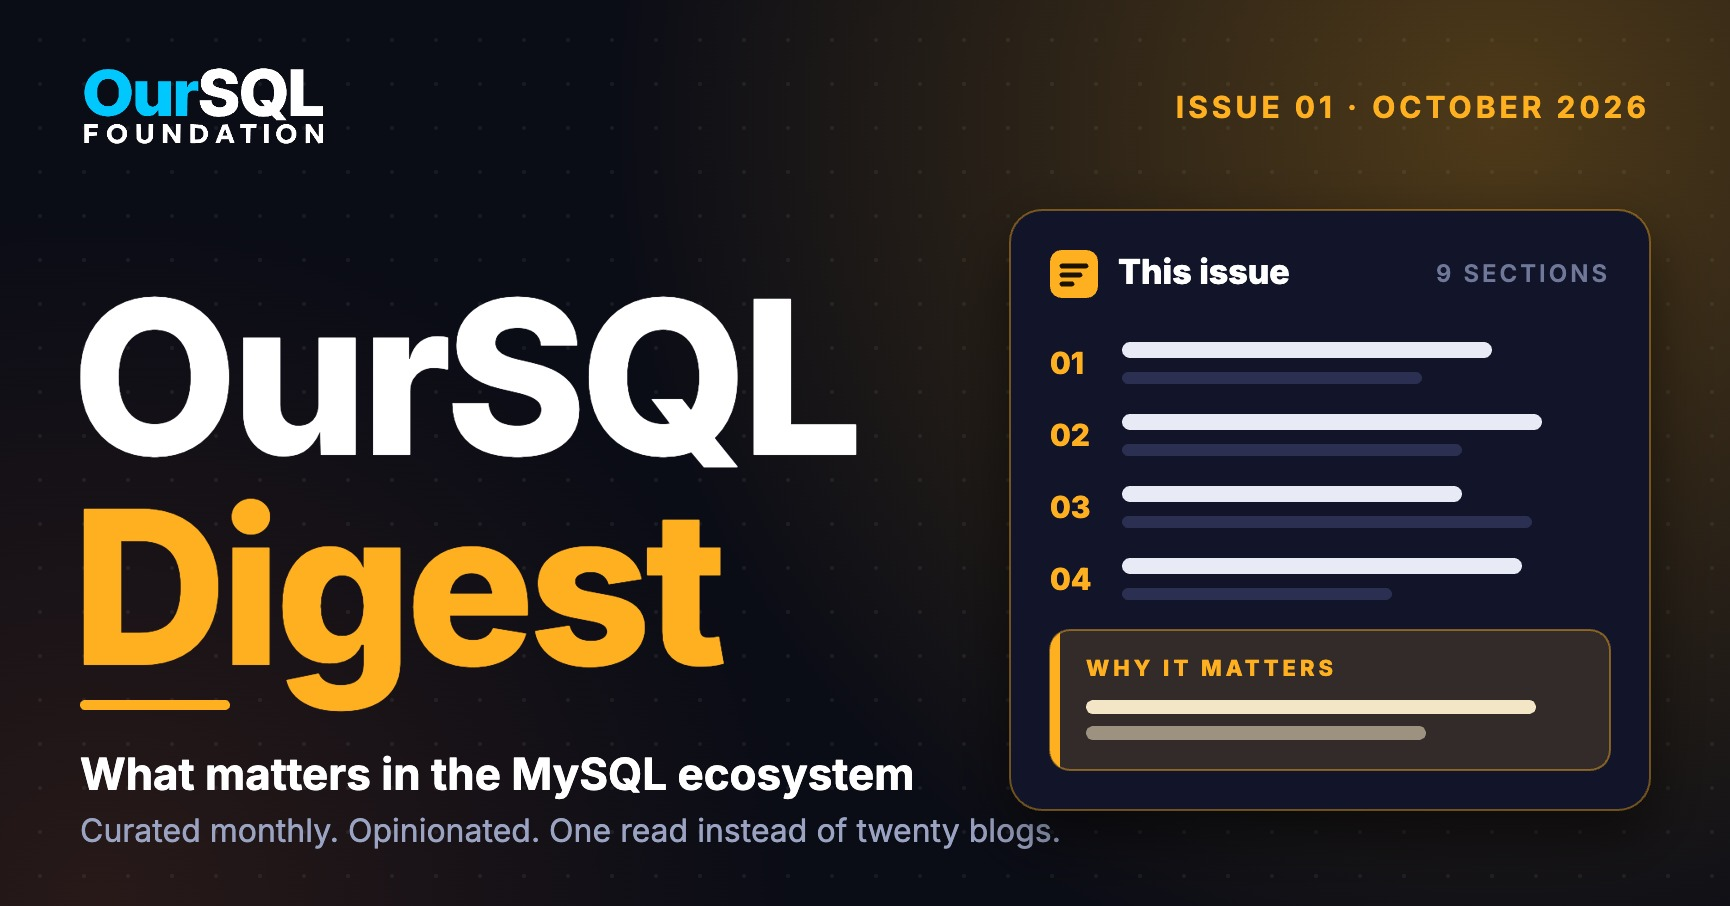
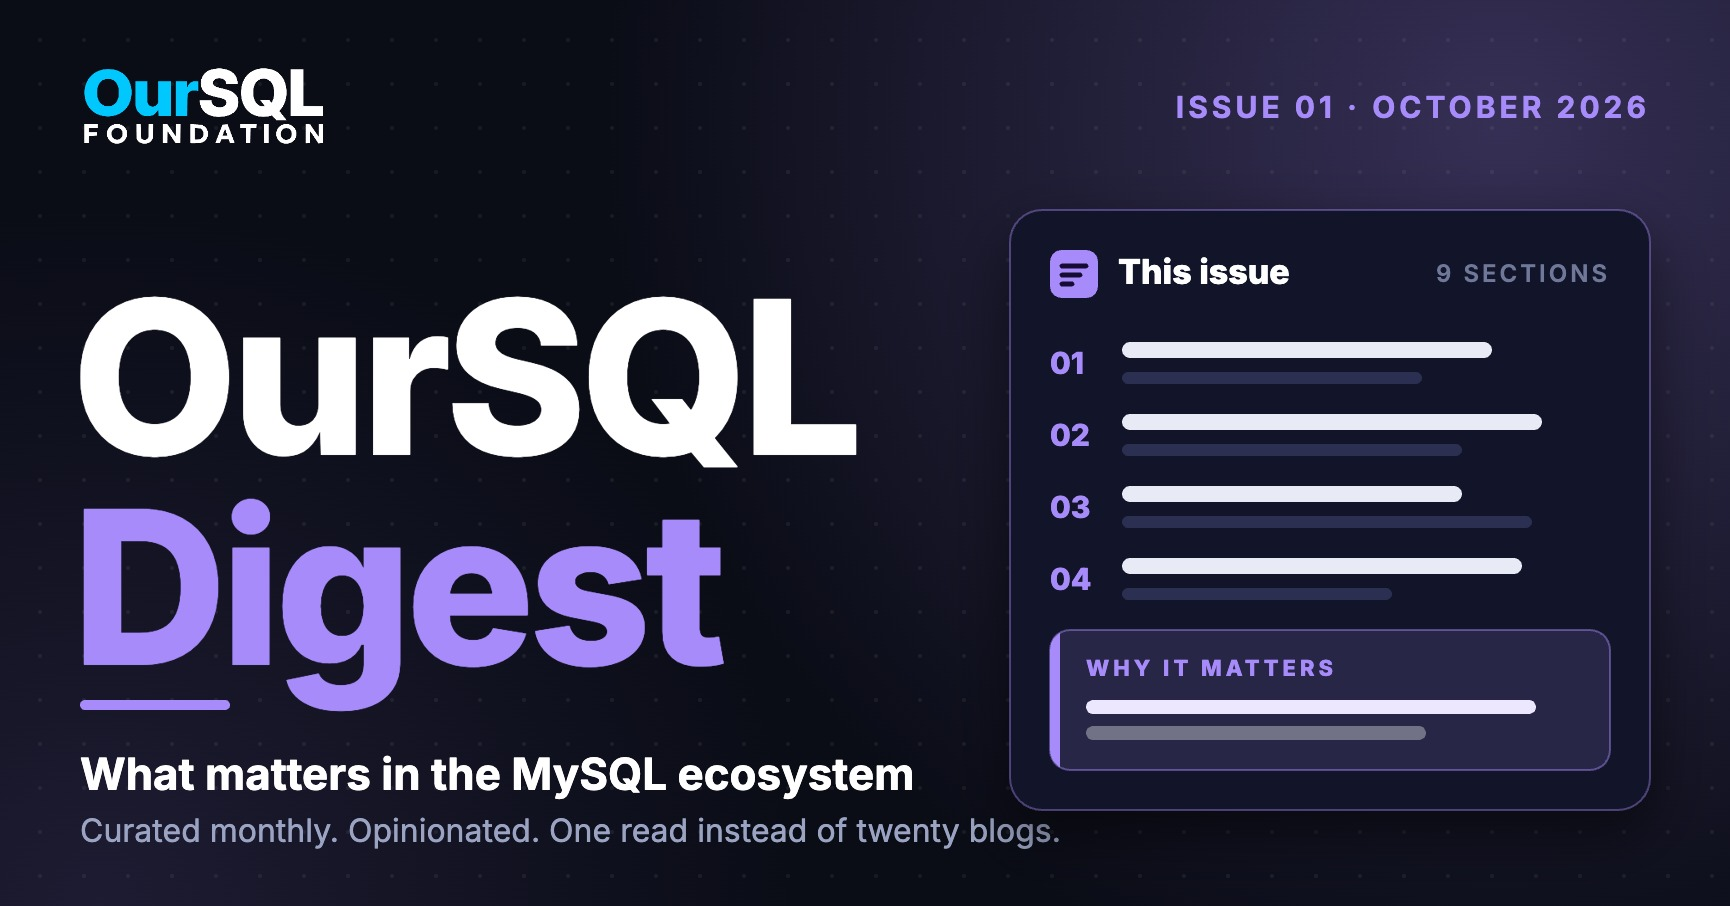
OurSQL Digest: violet accent, site-wide link style, new cover (#205)
Replaces the amber accent (too close to MySQL's colours) with violet in the
post, the blog list and the cover, and drops the Digest-specific link
underline so links look like everywhere else on the site.

diff --git a/assets/scss/_digest.scss b/assets/scss/_digest.scss
@@ -1,12 +1,12 @@
 // ── OurSQL Digest ───────────────────────────────────────────────────────────
-// The monthly digest is its own product next to the Newsletter: amber accent
+// The monthly digest is its own product next to the Newsletter: violet accent
 // instead of the site's cyan, a masthead, numbered sections with anchors, and
 // a framed "Why it matters" block. Imported last so the light-theme rules at
 // the bottom of this file win over the generic light theme.
 
-$digest:        #ffb020;
-$digest-ink:    #1b1300;
-$digest-deep:   #9a5b00;   // readable amber on light backgrounds
+$digest:        #a78bfa;
+$digest-ink:    #160c33;
+$digest-deep:   #6d4ae0;   // readable violet on light backgrounds
 
 // "Why it matters" block (shortcode) — used inside Digest issues
 .digest-why {
@@ -33,7 +33,7 @@ $digest-deep:   #9a5b00;   // readable amber on light backgrounds
   p:last-child { margin-bottom: 0; }
 }
 
-// Blog list: Digest cards carry the amber accent
+// Blog list: Digest cards carry the violet accent
 .post-card--digest {
   border-color: rgba($digest, 0.4) !important;
 
@@ -154,11 +154,6 @@ $digest-deep:   #9a5b00;   // readable amber on light backgrounds
   .post-content {
     counter-reset: digest-section;
 
-    a {
-      text-decoration-color: rgba($digest, 0.45);
-      &:hover { text-decoration-color: $digest; }
-    }
-
     // Numbered sections, each with its own anchor
     h2 {
       counter-increment: digest-section;
@@ -233,33 +228,32 @@ $digest-deep:   #9a5b00;   // readable amber on light backgrounds
 
 [data-theme="light"] {
   .digest-why {
-    background: #fff8e8;
-    border-color: #f0d9a4;
-    border-left-color: #e29a00;
+    background: #f6f3ff;
+    border-color: #ddd3fb;
+    border-left-color: #8b5cf6;
   }
   .digest-why-label { color: $digest-deep; }
   .digest-why-body p { color: #0f172a; }
 
-  .post-card--digest { border-color: #f0d9a4 !important; &:hover { border-color: #e29a00 !important; } }
+  .post-card--digest { border-color: #ddd3fb !important; &:hover { border-color: #8b5cf6 !important; } }
   .post-card-tag--digest { color: $digest-deep !important; }
 
   .digest-masthead {
-    background: linear-gradient(90deg, #fff1cf, #fffaf0);
-    border-color: #f0d9a4;
+    background: linear-gradient(90deg, #ece6ff, #f8f6ff);
+    border-color: #ddd3fb;
   }
   .digest-masthead-name { color: #0f172a; strong { color: $digest-deep; } }
   .digest-masthead-issue, .digest-toc-n { color: $digest-deep; }
   .digest-tagline { color: #334155; opacity: 1; }
-  .digest-toc a { color: #334155; border-color: #f0d9a4; &:hover { background: #fff1cf; border-color: #e29a00; } }
+  .digest-toc a { color: #334155; border-color: #ddd3fb; &:hover { background: #ece6ff; border-color: #8b5cf6; } }
 
   .post-layout--digest {
-    .post-header { border-bottom-color: #f0d9a4; }
-    .post-header .post-tags .tag--digest { color: $digest-deep; background: #fff1cf; border-color: #f0d9a4; }
+    .post-header { border-bottom-color: #ddd3fb; }
+    .post-header .post-tags .tag--digest { color: $digest-deep; background: #ece6ff; border-color: #ddd3fb; }
     .post-content {
-      a { text-decoration-color: rgba($digest-deep, 0.5); }
-      h2 { border-top-color: #f0d9a4; &::before { color: $digest-deep; } }
+      h2 { border-top-color: #ddd3fb; &::before { color: $digest-deep; } }
       table {
-        th { color: $digest-deep; border-bottom-color: #f0d9a4; }
+        th { color: $digest-deep; border-bottom-color: #ddd3fb; }
         th, td { border-bottom-color: #dde3ed; }
         td:first-child { color: #0f172a; }
       }
